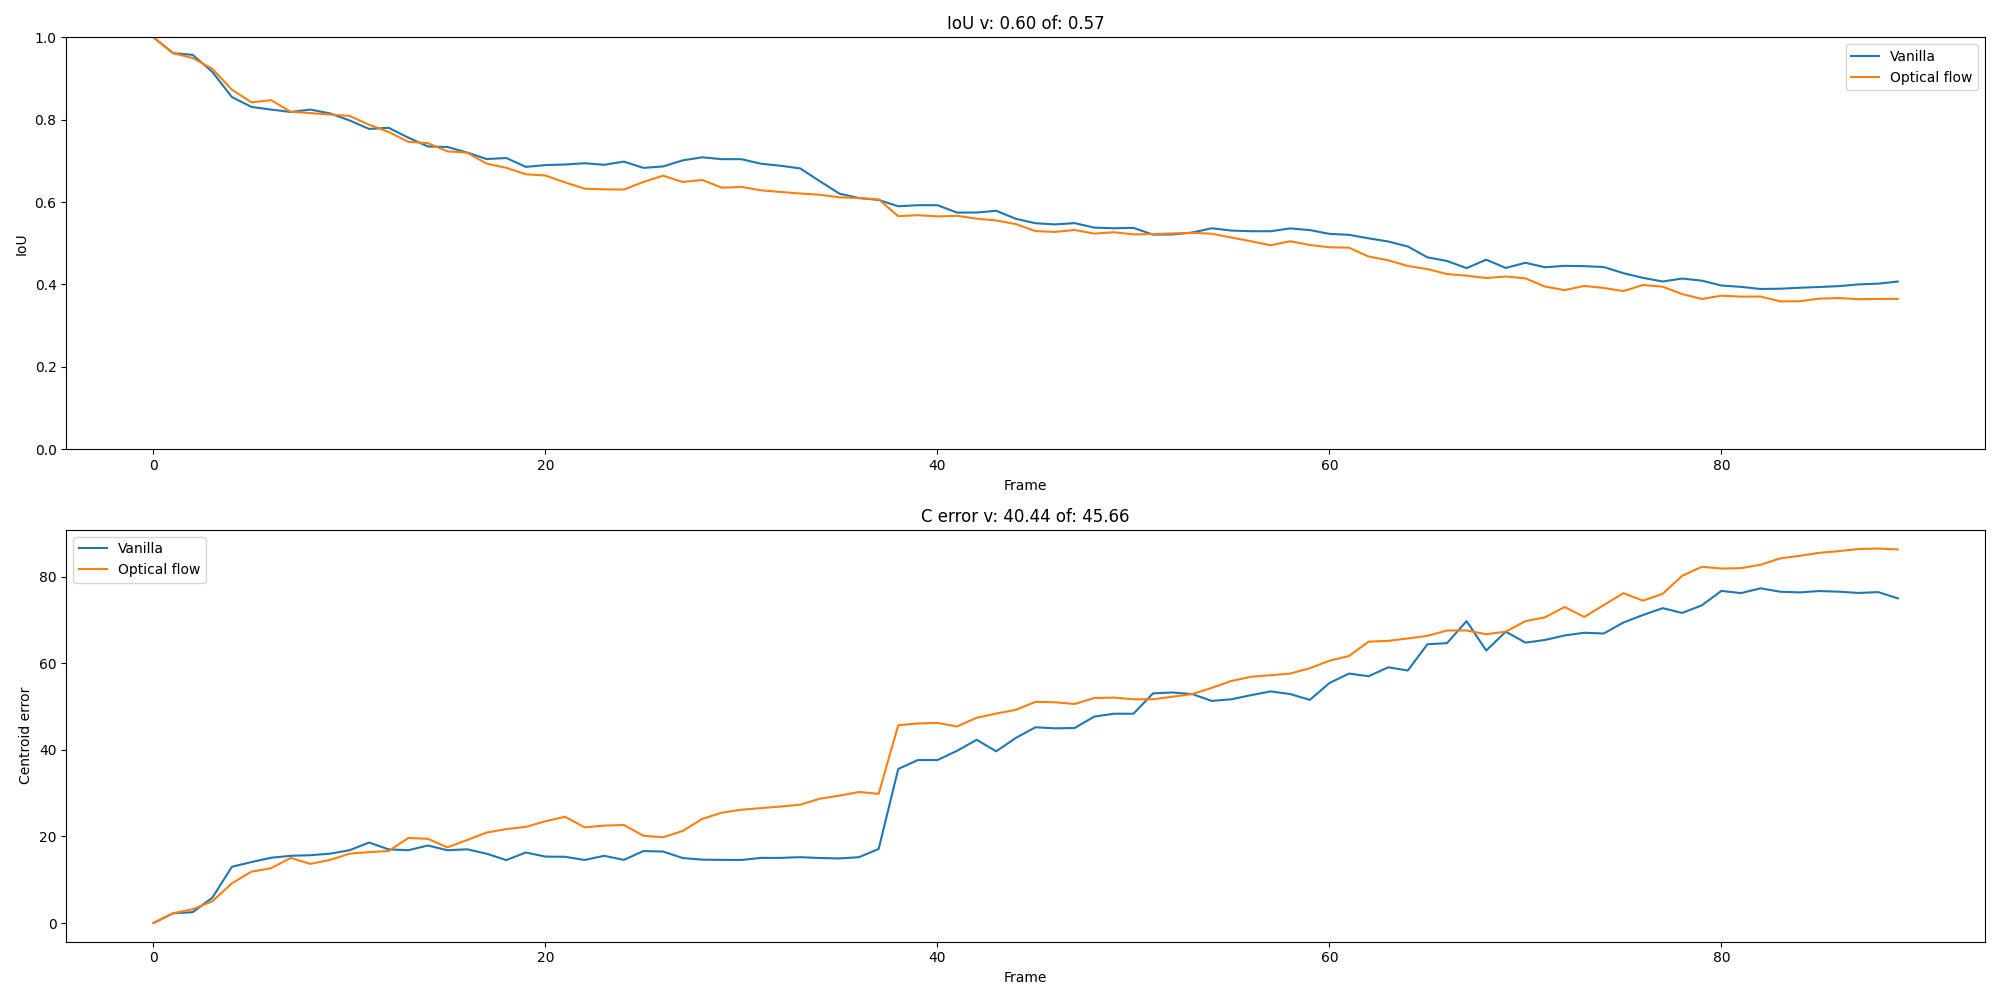
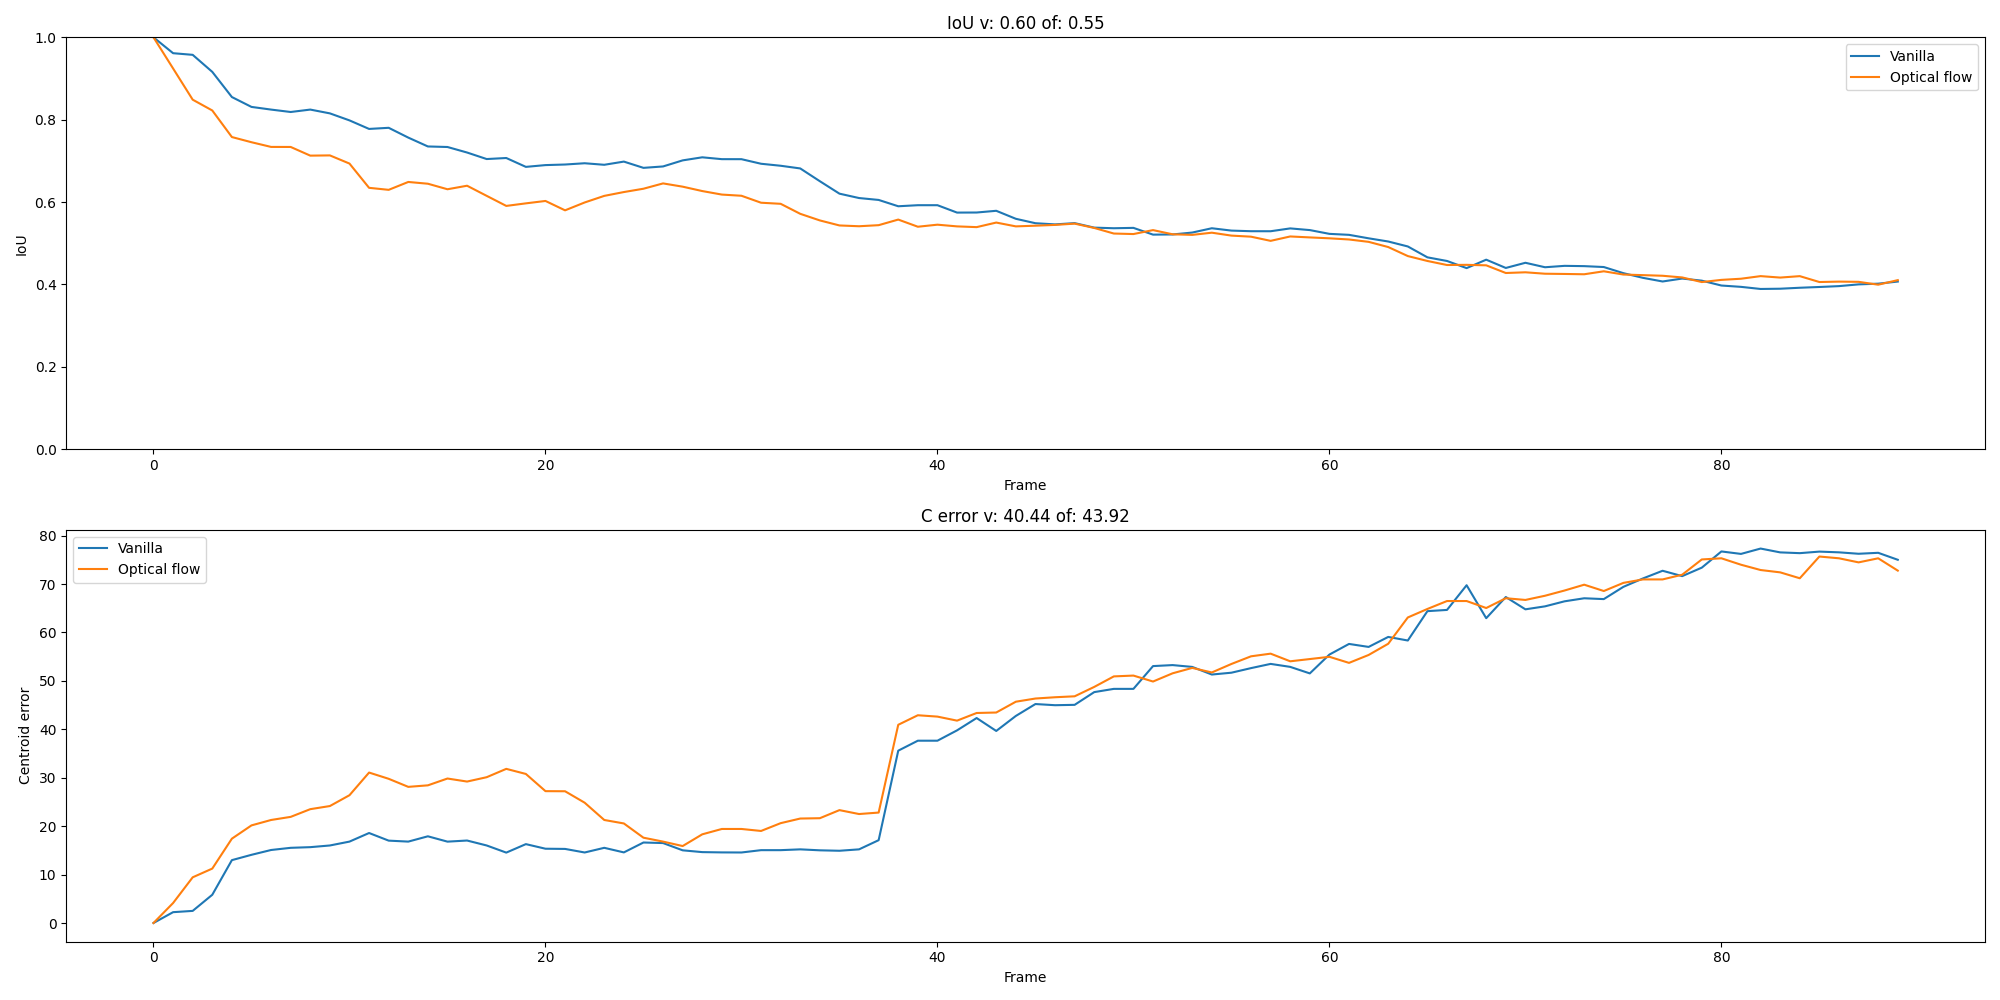
change params for optical flow

diff --git a/eval.py b/eval.py
@@ -97,6 +97,8 @@ def main(path="sequences-train",
         
         ious_v = np.array(ious_v)
         ious_of = np.array(ious_of)
+
+        print(f"IoU v: {np.mean(ious_v):.2f} of: {np.mean(ious_of):.2f}")
         
         centroid_errors_v = np.array(centroid_errors_v)
         centroid_errors_of = np.array(centroid_errors_of)  

diff --git a/eval_utils.py b/eval_utils.py
@@ -112,7 +112,7 @@ def centroid_error(box1, box2):
     return np.sqrt((c1[0] - c2[0])**2 + (c1[1] - c2[1])**2)
     
     
-def delta_by_optical_flow(img1, img2, mode="tvl1", target_size=(32,32)):
+def delta_by_optical_flow(img1, img2, mode="tvl1", target_size=(64,64)):
     """
     img1 and img2 are numpy arrays
     
